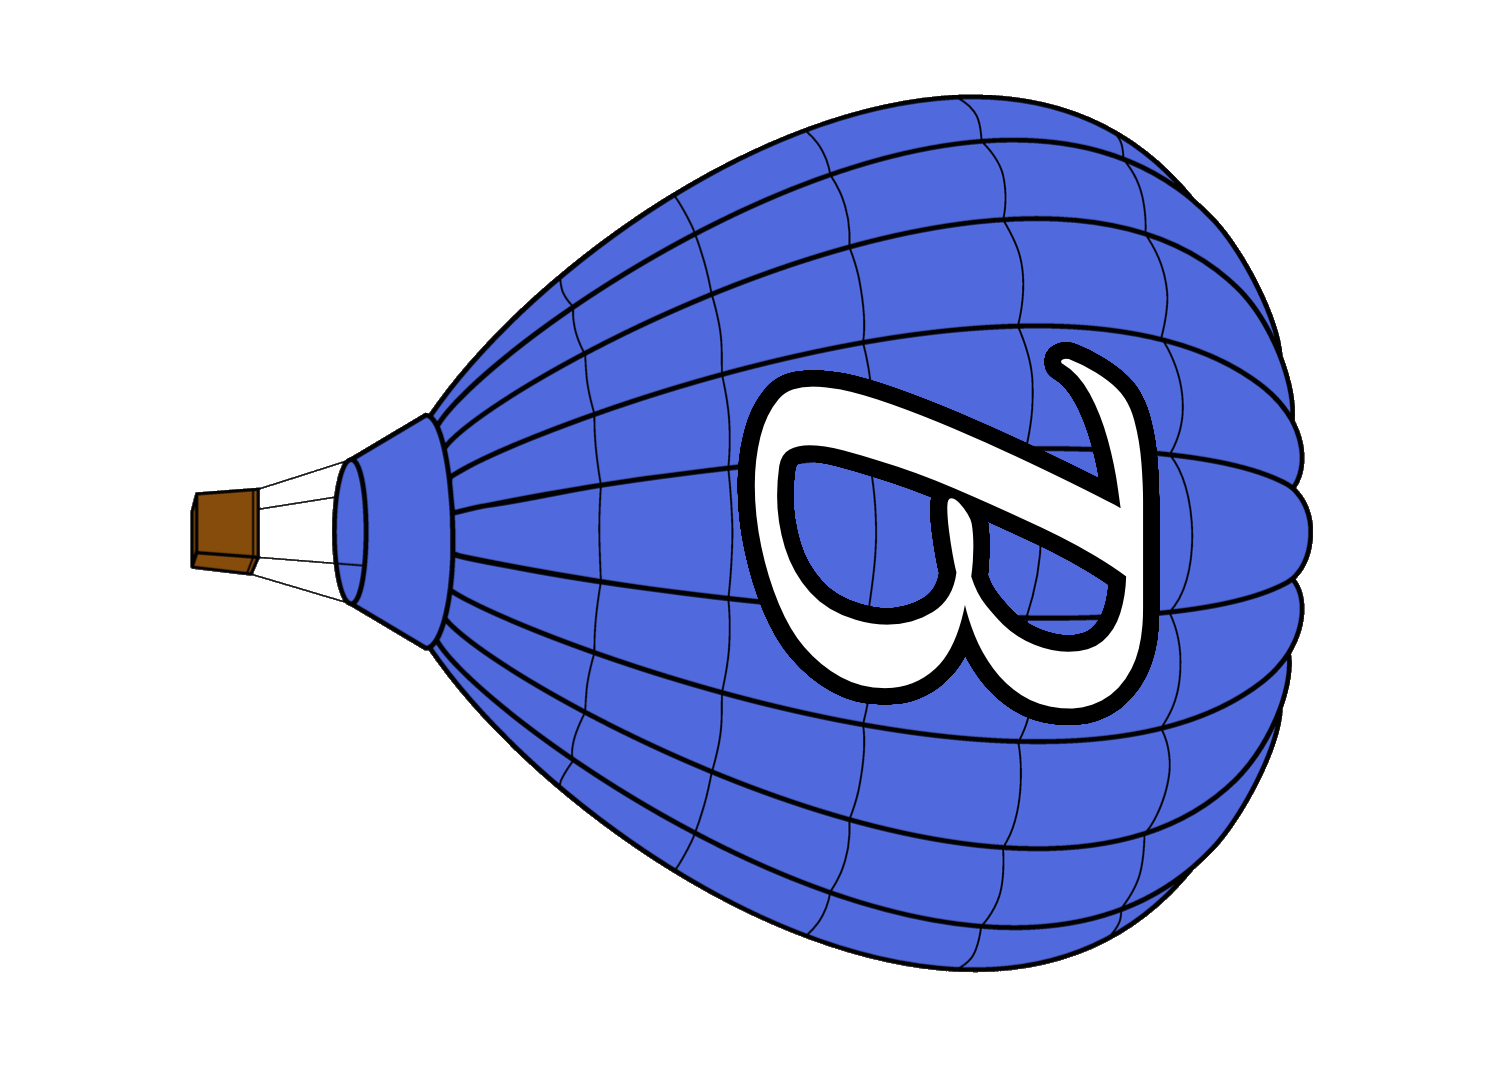
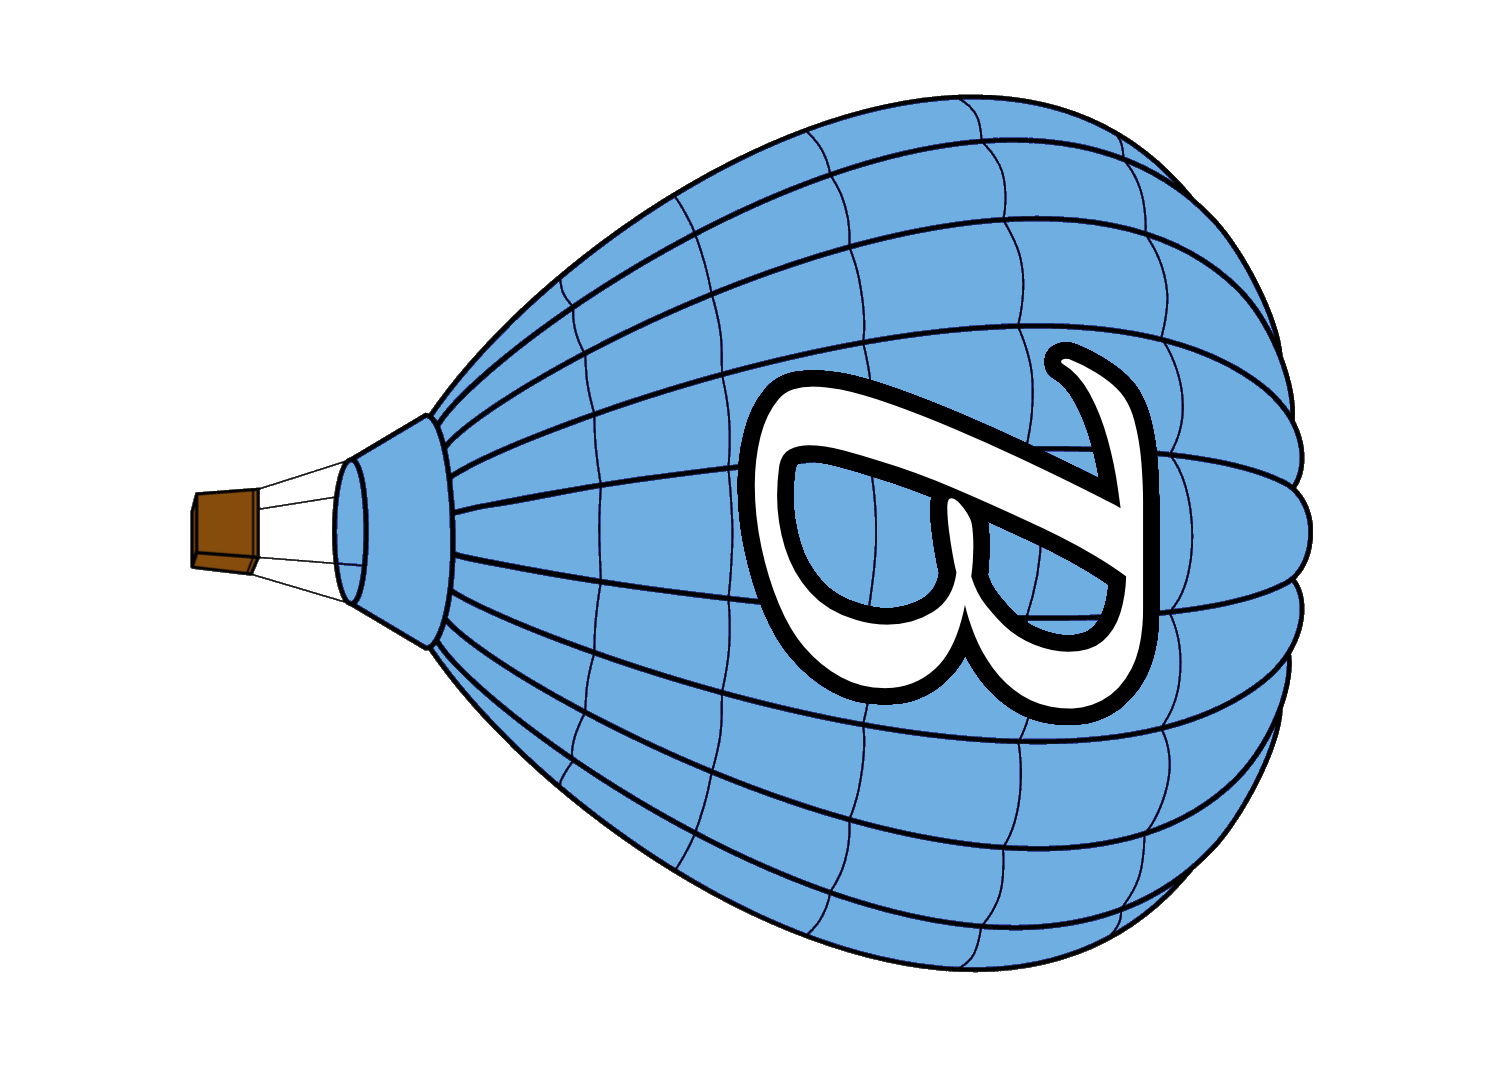
Add files for blue balloons and extra scoring tokens

Changed region(s): [[0.2142, 0.0929, 0.8876, 0.9287]]

diff --git a/balloon_cards_backs.tex b/balloon_cards_backs.tex
@@ -20,5 +20,11 @@
 \pic[rotate=90, transform shape, yscale=-1, xscale=-1] at (105mm,260mm) {ballooncardbackprintable={{Images/diag_wy_labels_small.png}{1.0}{}{}}};
 
 \pic[rotate=90, transform shape, yscale=-1, xscale=-1] at (41.5mm,35mm) {ballooncardbackprintable={{Images/monkey_labels_small.png}{1.0}{}{}}};
+\pic[rotate=90, transform shape, yscale=-1, xscale=-1] at (41.5mm,80mm) {ballooncardbackprintable={{Images/grid_bg_labels_small.png}{1.0}{}{}}};
+\pic[rotate=90, transform shape, yscale=-1, xscale=-1] at (41.5mm,125mm) {ballooncardbackprintable={{Images/vert_bp_labels_small.png}{1.0}{}{}}};
+\pic[rotate=90, transform shape, yscale=-1, xscale=-1] at (41.5mm,170mm) {ballooncardbackprintable={{Images/diag_br_labels_small.png}{1.0}{}{}}};
+\pic[rotate=90, transform shape, yscale=-1, xscale=-1] at (41.5mm,215mm) {ballooncardbackprintable={{Images/horiz_by_labels_small.png}{1.0}{}{}}};
+\pic[rotate=90, transform shape, yscale=-1, xscale=-1] at (41.5mm,260mm) {ballooncardbackprintable={{Images/grid_bw_labels_small.png}{1.0}{}{}}};
+
 \end{tikzpicture}
 \end{document}

diff --git a/balloon_cards_fronts.tex b/balloon_cards_fronts.tex
@@ -21,5 +21,11 @@
 \pic[rotate=90, transform shape] at (105mm,260mm) {ballooncardfrontprintable={{Images/diag_wy_labels.png}{1.0}{}{}}};
 
 \pic[rotate=90, transform shape] at (168.5mm,35mm) {ballooncardfrontprintable={{Images/monkey_labels.png}{1.0}{}{}}};
+\pic[rotate=90, transform shape] at (168.5mm,80mm) {ballooncardfrontprintable={{Images/grid_bg_labels.png}{1.0}{}{}}};
+\pic[rotate=90, transform shape] at (168.5mm,125mm) {ballooncardfrontprintable={{Images/vert_bp_labels.png}{1.0}{}{}}};
+\pic[rotate=90, transform shape] at (168.5mm,170mm) {ballooncardfrontprintable={{Images/diag_br_labels.png}{1.0}{}{}}};
+\pic[rotate=90, transform shape] at (168.5mm,215mm) {ballooncardfrontprintable={{Images/horiz_by_labels.png}{1.0}{}{}}};
+\pic[rotate=90, transform shape] at (168.5mm,260mm) {ballooncardfrontprintable={{Images/grid_bw_labels.png}{1.0}{}{}}};
+
 \end{tikzpicture}
 \end{document}

diff --git a/other_cards_fronts.tex b/other_cards_fronts.tex
@@ -17,6 +17,8 @@
 \pic[rotate=90, transform shape] at (105mm+\smallvertdist,260mm) {colorcardfrontprintable={y}};
 
 
+\pic[rotate=90, transform shape] at (105mm,260mm-4\smallhorizdist) {colorcardfrontprintable={b}};
+
 %\pic[xscale=-1,  yscale=-1, transform shape] at (105mm,260mm) {othercardfrontprintable={Images/solid_o_rotated.png}{BasketBrown}{}{}};
 %\pic[xscale=-1,  yscale=-1, transform shape] at (105mm,260mm-\smallhorizdist) {othercardfrontprintable={Images/solid_b_rotated.png}{BasketBrown}{}{}};
 %\pic[xscale=1, transform shape] at (105mm, 260mm-2\smallhorizdist) {othercardfrontprintable={Images/truck_o.png}{TruckOrange}{}{}};

diff --git a/other_cards_backs.tex b/other_cards_backs.tex
@@ -13,6 +13,8 @@
 %\pic at (105mm,260mm) {othercardbackprintable={BasketBrown}};
 %\pic at (105mm,260mm-\smallhorizdist) {othercardbackprintable={BasketBrown}};
 %\pic[xscale=-1, transform shape] at (105mm,260mm-2\smallhorizdist) {othercardbackprintable2={Images/truck_o.png}{TruckOrange}{}{}};
+\pic at (105mm,260mm-4\smallhorizdist) {othercardbackprintable={BasketBrown}};
+
 
 \pic at (105mm-\smallvertdist,260mm-4\smallhorizdist) {othercardbackprintable={BasketBrown}};
 \pic at (105mm-\smallvertdist,260mm-3\smallhorizdist) {othercardbackprintable={BasketBrown}};

diff --git a/color_card.tex b/color_card.tex
@@ -5,7 +5,7 @@
 
 \begin{document}
 \begin{tikzpicture}
-%\pic at (0,0) {colorcardfrontprintable={w}};
-\pic at (0,0) {patterncardfrontprintable={Images/quincunx_tbl.png}};
+\pic at (0,0) {colorcardfrontprintable={b}};
+%\pic at (0,0) {patterncardfrontprintable={Images/quincunx_tbl.png}};
 \end{tikzpicture}
 \end{document}

diff --git a/scoring_token.tex b/scoring_token.tex
@@ -8,7 +8,7 @@
 \begin{document}
 \begin{tikzpicture}
 
-\node[draw, line width=1mm, circle, minimum width=25mm, inner sep = 1mm] at (0,0) {{\Huge 1}};
+\node[draw, line width=1mm, circle, minimum width=25mm, inner sep = 1mm] at (0,0) {{\Huge 18}};
 
 \end{tikzpicture}
 

diff --git a/card_face_with_colour_labels.tex b/card_face_with_colour_labels.tex
@@ -5,6 +5,6 @@
 
 \begin{document}
 \begin{tikzpicture}
-	\pic at (0,0) {ballooncardbackprintable={{Images/solid_Y.png}{1.0}{Y}{}}};
+	\pic at (0,0) {ballooncardfrontprintable={{Images/grid_bg.png}{1.0}{BG}{}}};
 \end{tikzpicture}
 \end{document}
